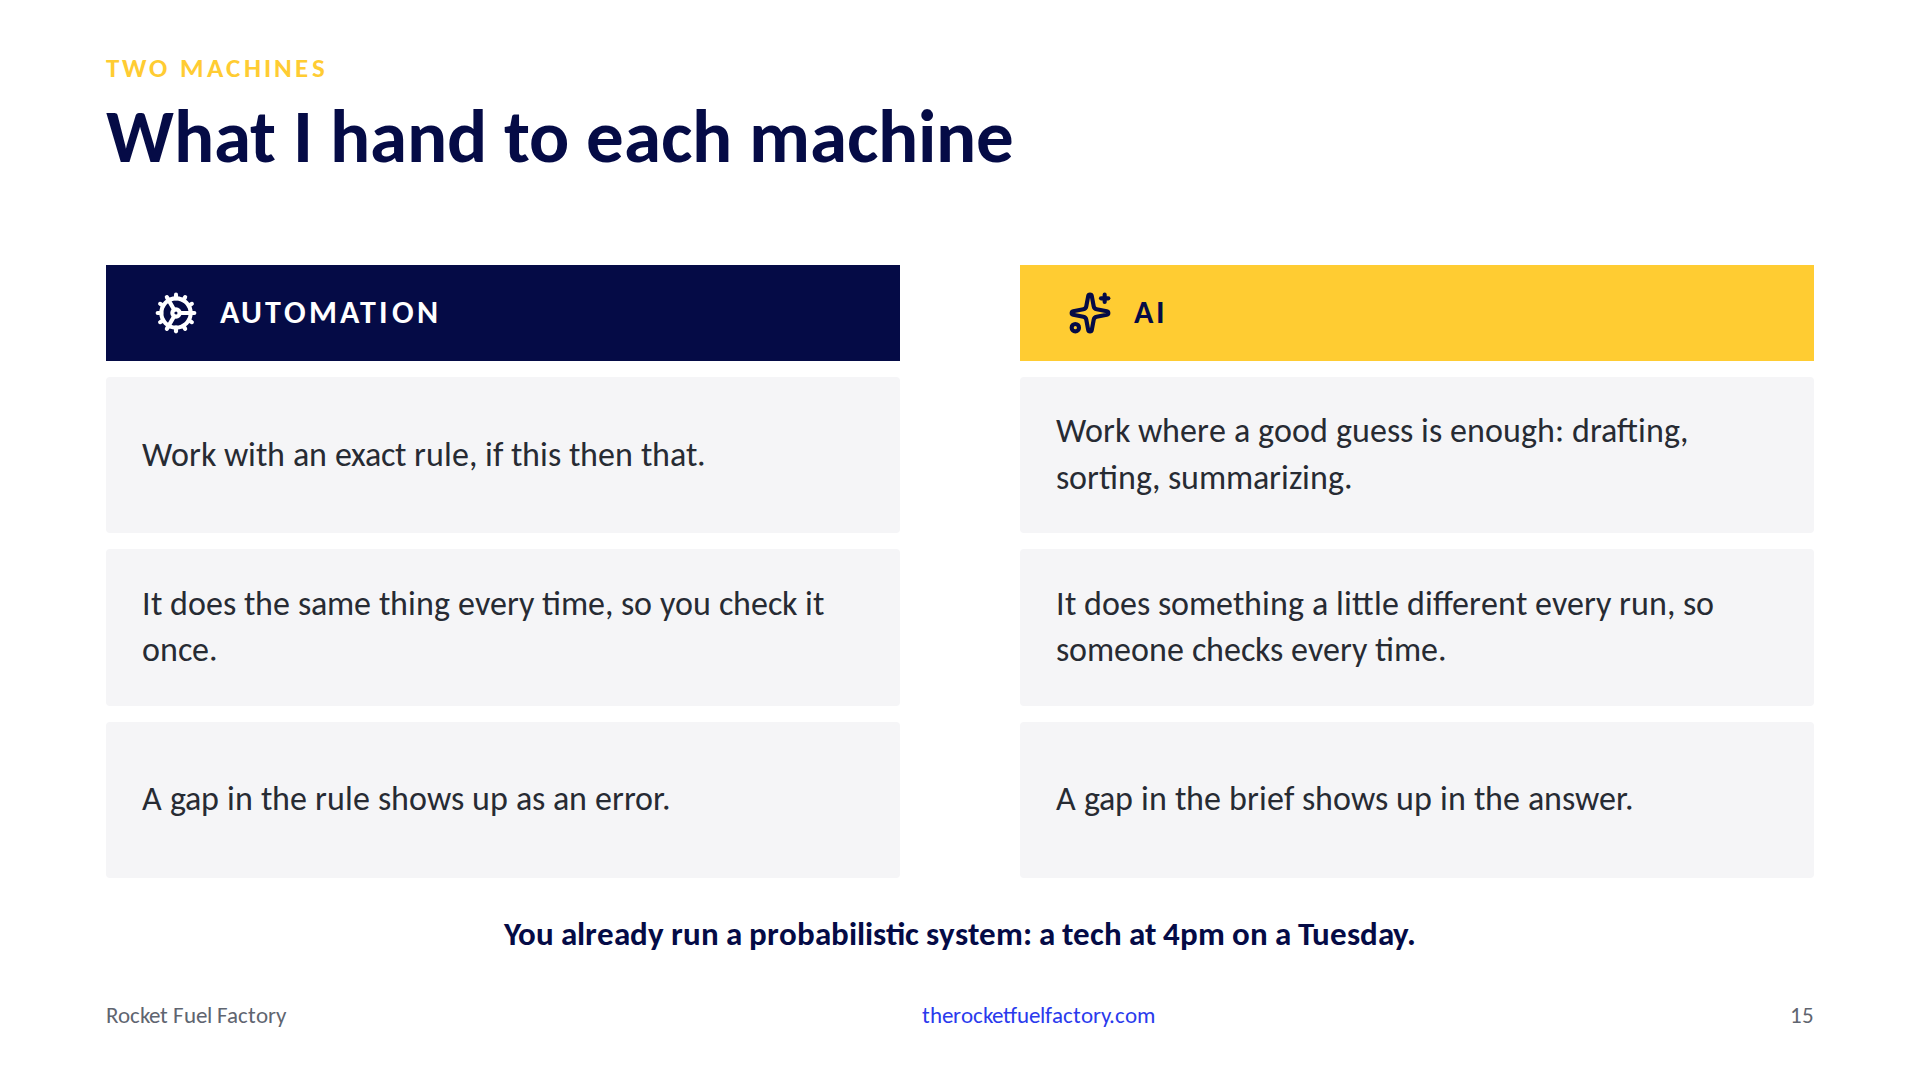
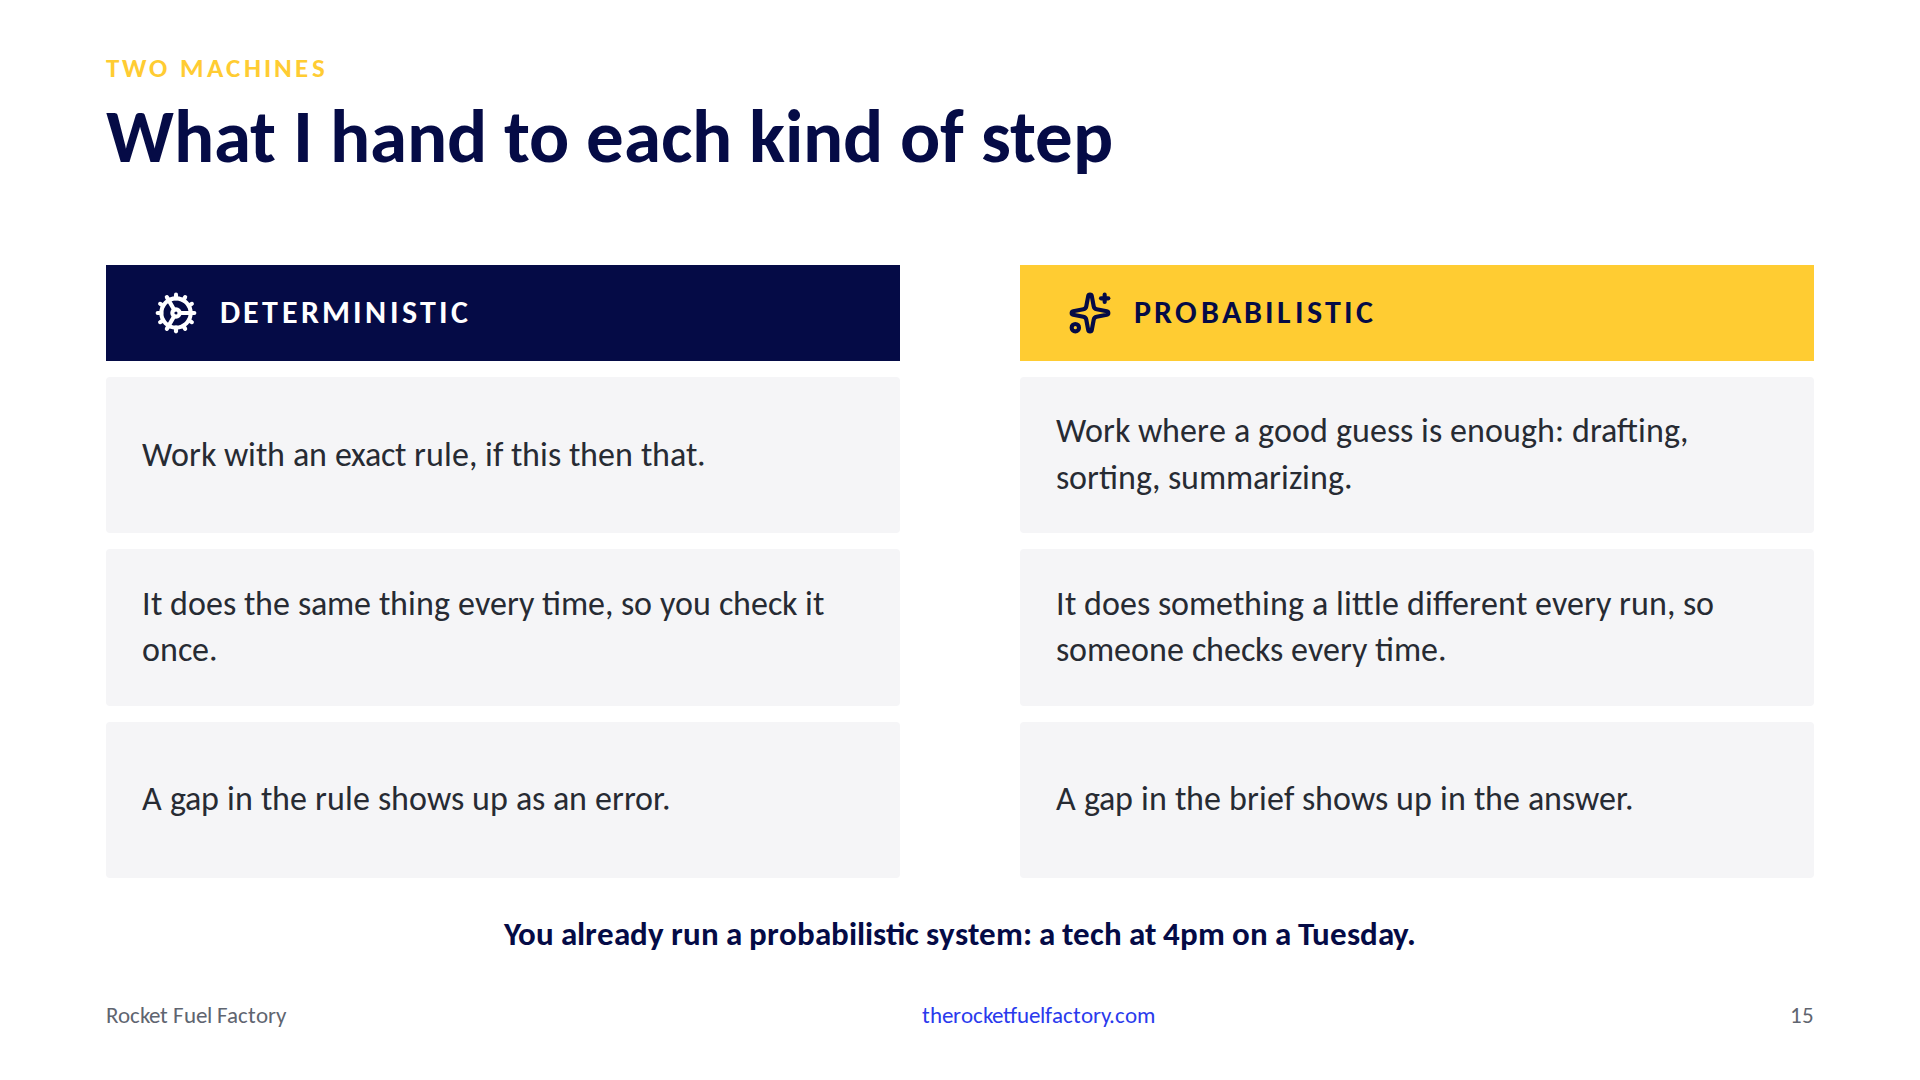
Slides 15 and 16: deterministic and probabilistic as the words; sandwich aligned, labels and note follow

Changed region(s): [[0.375, 0.0917, 0.5938, 0.1528], [0.0938, 0.275, 0.25, 0.3056], [0.5938, 0.275, 0.7188, 0.3056]]

diff --git a/src/data/notes.js b/src/data/notes.js
@@ -18,8 +18,8 @@ export const notes = {
   'exists-means-said-out-loud': 'Target 11:10. A client calls: one of their people is leaving on Friday. We have a checklist for that. It is a good one, six steps, and everyone follows it. Mike wrote it, and Mike is on vacation this week, so Chris covers for him and works down the list. One line says cancel software licenses, so Chris cancels Microsoft 365, ticks the box, and closes the ticket. Nothing looks wrong. A year later you reconcile the Adobe bill and find nine seats for people who no longer work there. Nobody skipped a step. To Mike, that line means Microsoft, Adobe, and the two tools he set up for that client, because he set them up. To Chris it means Microsoft. Same words, and the meaning lives in one person. This is the email again. On top of it meant something specific in one head and nothing specific anywhere else. Here is what that costs. Mike cannot take a vacation, because the process is him. Every departure gets handled twice, once wrong by Chris, once right by the expensive person. And the hire that covers for Mike is not for the work. It is insurance against a definition of done that lives in one person. So here is the test I use. A step is only documented if someone else can follow it without asking for help. Chris needed help. That line failed the test, and nobody knew until the invoice. The fix for that line is an hour. Sit down with Mike, ask him which licenses, and write down what he says. After that Chris can run it without asking, and so can a machine. The problem is that it is one line on one list, and Mike owns forty lists like it. That is what doing more without adding bodies means: fewer people needed to make a process safe. It is true of any process that lives in one person, and it is why so many of us automate the wrong ones.',
   'the-wrong-things': 'Target 13:10. So the process is written down. Where do we point the machine? Here is what I keep seeing. The left column is what is being sold to MSPs right now, and it is being sold hard. An agent that answers the phone. An agent in the client\'s Teams. Password resets nobody touches. A quarterly review that writes itself. The right column is what I think we are actually buying. A phone that does not ring. A ticket that closes without a conversation. If I am honest, I think we buy these because deep down a lot of us do not like talking to customers, or we are a little afraid to. The call is the part of the day where something can go wrong in front of someone. Every one of those sounds like relief, and I get it. Here is the problem. The call you did not take is the call where you would have heard that Dana is shopping for a new MSP. The review meeting you skipped is the meeting where the next thing you sell them gets sold. Those conversations are the only part of this business a competitor cannot undercut on price. I am not saying the tools are bad. Some of them are very good at what they do. I am saying the aim is wrong. In the demo, the machine wrote the draft and I made the call to Dana. The machine never talked to her. That split is the whole point. The work that eats the day is on our side of the desk, reading one screen and typing into another, chasing the same approval, checking the same thing every morning. Nobody is going to miss doing that. Point the machine there, and spend the hours you get back in front of the customer.',
   'divider-where-ai-belongs': 'Target 15:10. The work is written down, so now I pick who does it. I have two machines and they are not the same. One follows the rules exactly and the other makes a good guess. The next three slides are how I split the work between them, how I keep the guessing one away from the customer and the record, and what it costs me to check.',
-  'deterministic-vs-probabilistic': 'Target 15:40. Here is how I split it. Automation gets the work with an exact rule. If a ticket comes in from this client at this priority, do this. It does the same thing every single time, which means I can check it once, sign off on it, and let it run. And when it hits something the rule does not cover, it does not improvise. It errors, and I hear about it. AI gets the work where a good guess is enough. Draft the email. Sort the inbox. Summarize the ticket. It does something a little different every run, which is fine for a draft and not fine for a decision, so someone reads what it produces every time. And when the brief has a gap, the gap does not come back as an error. It comes back inside the answer, as a guess or as a question, and you only find it by reading. That Q2 line in the first email was a gap in the brief showing up in the answer. If that sounds like a lot of checking, think about what you already run. A tech at 4pm on a Tuesday is a probabilistic system, and you do not ban the tech. You put a second pair of eyes on the work that mattered. Same answer here. Here is what that looks like when you wire it up.',
-  'guardrail-sandwich': 'Target 17:40. This is how I wire it up, and I call it the guardrail sandwich. The bread is automation. The filling is AI. The AI never touches anything on its own. Top slice first. Automation gathers the facts from the systems that actually hold them, so the AI is not guessing at what the ticket said or what the client has. It validates that the request is complete and that we are allowed to act on it at all, and if either of those fails it stops right there and a person hears about it. Then it attaches the rules you wrote for this job. That is the step most people skip. It is the brief from the demo, and it is the thing that turns a guess into a draft you would sign. Now the filling. The AI makes the first pass. It drafts, it sorts, it summarizes. That is the only thing it does, and it does it with the facts and the rules already in front of it. Bottom slice. Automation checks the result against those same rules, and if it cannot check something, it hands it to a person. Then it logs what happened and tells the person who owns it. The AI never sent anything, never changed a record, never talked to a customer. It made a first pass in the middle of a process that was written down on both sides of it. If you saw me at Right of Boom, this is the same sandwich with the security taken out and the day to day put in. Here is what it costs.',
+  'deterministic-vs-probabilistic': 'Target 15:40. Two words, and then I will stop using jargon. Deterministic means the same input gives the same output, every time, forever. Probabilistic means it gives you a good answer, and a slightly different one each time you ask. The steps we usually call automation are deterministic. The steps we call AI are probabilistic. Neither is better. They are for different work, and a finished automation is usually built from both, which is the next slide. Here is how I split it. The deterministic steps get the work with an exact rule. If a ticket comes in from this client at this priority, do this. It does the same thing every single time, which means I can check it once, sign off on it, and let it run. And when it hits something the rule does not cover, it does not improvise. It errors, and I hear about it. The probabilistic step gets the work where a good guess is enough. Draft the email. Sort the inbox. Summarize the ticket. It does something a little different every run, which is fine for a draft and not fine for a decision, so someone reads what it produces every time. And when the brief has a gap, the gap does not come back as an error. It comes back inside the answer, as a guess or as a question, and you only find it by reading. That Q2 line in the first email was a gap in the brief showing up in the answer. If that sounds like a lot of checking, think about what you already run. A tech at 4pm on a Tuesday is a probabilistic system, and you do not ban the tech. You put a second pair of eyes on the work that mattered. Same answer here. Here is what that looks like when you wire it up.',
+  'guardrail-sandwich': 'Target 17:40. This is how I wire it up, and I call it the guardrail sandwich. The whole thing is one automation. The bread is the deterministic steps. The filling is the probabilistic step. The probabilistic step never touches anything on its own. Top slice first. Gather the facts from the systems that actually hold them, so the model is not guessing at what the ticket said or what the client has. Validate that the request is complete and that we are allowed to act on it at all, and if either of those fails it stops right there and a person hears about it. Then attach the rules you wrote for this job. That is the step I see skipped most often. It is the brief from the demo, and it is the thing that turns a guess into a draft you would sign. Now the filling. The model makes the first pass. It drafts, it sorts, it summarizes. That is the only thing it does, and it does it with the facts and the rules already in front of it. Bottom slice. Check the result against those same rules, and if something cannot be checked by a rule, hand it to a person. Then log what happened and tell the person who owns it. The model never sent anything, never changed a record, never talked to a customer. It made a first pass in the middle of a process that was written down on both sides of it. If you saw me at Right of Boom, this is the same sandwich with the security taken out and the day to day put in. Here is what it costs.',
   'honest-limit': 'Target 20:10. Line to land: the cost of AI is not tokens, it is review. A client cannot audit a vibe, they can audit a log. Sets up Bradley at 3:15.',
   'the-more': 'Target 21:40. SLOW. This is the title. Your own shop is the starting line. Your customers have the same automatons: invoices, approvals, renewals, same screens, same retyping. Nobody is selling them the fix. You just learned how. That is the more.',
   'one-action': 'Target 23:40. End on the action, not a thank you. Read it as instructions, slowly. The employee you would hate to lose is the person the process lives in; that is why you would hate to lose them. The thing they dread once a month is the automaton work. Writing it down is Aharon: the process does not exist until it is said out loud. The two questions are the whole talk: could anyone else follow it is delegation, could it be automated is the more. Then hand off: Erik and Atul are about to talk about the version of this where the person the process lives in is you.',

diff --git a/src/components/slides/017-GuardrailSandwich.jsx b/src/components/slides/017-GuardrailSandwich.jsx
@@ -13,32 +13,55 @@ const BREAD_H = 184
 const FILL_H = 210
 const LABEL_W = 400
 
+// Alignment: every circle in a band shares one top, every step's first line of
+// text shares one baseline, and the circle centre sits on that first line. The
+// label icon rides the same 52px row, so icon, circle and first line all agree.
+const LINE_H = 37.5 // text-[30px] leading-[1.25]
+const CIRCLE = 52
+const TEXT_DROP = (CIRCLE - LINE_H) / 2 // text sits below the circle top
+
+// rows = the tallest step in the band, so the whole group centres as one block.
+function circleTop(height, rows) {
+  return (height - (rows * LINE_H + TEXT_DROP)) / 2
+}
+
 function Step({ n, text, light }) {
   return (
     <div className="flex items-start gap-[18px]">
       <span
-        className={`mt-[2px] flex h-[52px] w-[52px] shrink-0 items-center justify-center rounded-full text-[28px] font-bold ${
+        className={`flex h-[52px] w-[52px] shrink-0 items-center justify-center rounded-full text-[28px] font-bold ${
           light ? 'bg-white/15 text-white' : 'bg-rff-navy text-white'
         }`}
       >
         {n}
       </span>
-      <p className={`text-[30px] leading-[1.25] ${light ? 'text-white' : 'text-rff-body'}`}>{text}</p>
+      <p
+        className={`text-[30px] leading-[1.25] ${light ? 'text-white' : 'text-rff-body'}`}
+        style={{ marginTop: TEXT_DROP }}
+      >
+        {text}
+      </p>
     </div>
   )
 }
 
-function Band({ top, height, bg, light, Icon, label, children }) {
+function Band({ top, height, rows, bg, light, edge, Icon, label, children }) {
+  const pad = circleTop(height, rows)
   return (
     <div className="absolute flex rounded-[4px]" style={{ left: LEFT, top, width: WIDTH, height }} data-band>
       <div className={`absolute inset-0 rounded-[4px] ${bg}`} />
-      <div className="relative flex items-center gap-[20px] pl-[44px]" style={{ width: LABEL_W }}>
-        <Icon size={48} strokeWidth={2.25} className={light ? 'text-white' : 'text-rff-navy'} aria-hidden="true" />
-        <span className={`text-[27px] font-bold uppercase tracking-[0.12em] ${light ? 'text-white' : 'text-rff-navy'}`}>
-          {label}
-        </span>
+      {edge && <div className="absolute left-0 top-0 h-full w-[12px] rounded-l-[4px] bg-rff-gold" />}
+      <div className="relative shrink-0 pl-[44px]" style={{ width: LABEL_W, paddingTop: pad }}>
+        <div className="flex h-[52px] items-center gap-[20px]">
+          <Icon size={48} strokeWidth={2.25} className={light ? 'text-white' : 'text-rff-navy'} aria-hidden="true" />
+          <span className={`text-[27px] font-bold uppercase tracking-[0.12em] ${light ? 'text-white' : 'text-rff-navy'}`}>
+            {label}
+          </span>
+        </div>
       </div>
-      <div className="relative flex flex-1 items-center gap-[36px] pr-[44px]">{children}</div>
+      <div className="relative flex flex-1 items-start gap-[36px] pr-[44px]" style={{ paddingTop: pad }}>
+        {children}
+      </div>
     </div>
   )
 }
@@ -54,15 +77,15 @@ export default function GuardrailSandwich({ slideNumber }) {
       accent="gold"
       slideNumber={slideNumber}
     >
-      <Band top={t1} height={BREAD_H} bg="bg-rff-light" Icon={Cog} label="Automation">
+      <Band top={t1} height={BREAD_H} rows={3} bg="bg-rff-light" Icon={Cog} label="Deterministic">
         <div className="flex-1"><Step n={1} text="Gather the facts from the systems that hold them." /></div>
         <div className="flex-1"><Step n={2} text="Validate that it is complete and that we are allowed to act." /></div>
         <div className="flex-1"><Step n={3} text="Attach the rules you wrote for this job." /></div>
       </Band>
-      <Band top={t2} height={FILL_H} bg="bg-rff-gold" Icon={Sparkles} label="AI">
+      <Band top={t2} height={FILL_H} rows={1} bg="bg-rff-gold/20" edge Icon={Sparkles} label="Probabilistic">
         <div className="flex-1"><Step n={4} text="Make the first pass: draft it, sort it, or summarize it." /></div>
       </Band>
-      <Band top={t3} height={BREAD_H} bg="bg-rff-light" Icon={Cog} label="Automation">
+      <Band top={t3} height={BREAD_H} rows={2} bg="bg-rff-light" Icon={Cog} label="Deterministic">
         <div className="flex-1"><Step n={5} text="Check it against those same rules, or hand it to a person." /></div>
         <div className="flex-1"><Step n={6} text="Log what happened and tell the person who owns it." /></div>
       </Band>

diff --git a/src/components/slides/016-DeterministicVsProbabilistic.jsx b/src/components/slides/016-DeterministicVsProbabilistic.jsx
@@ -8,7 +8,7 @@ export default function DeterministicVsProbabilistic({ slideNumber }) {
   return (
     <ComparisonSlide
       eyebrow="Two machines"
-      title="What I hand to each machine"
+      title="What I hand to each kind of step"
       accent="gold"
       slideNumber={slideNumber}
       top={265}
@@ -19,7 +19,7 @@ export default function DeterministicVsProbabilistic({ slideNumber }) {
       arrows={false}
       emphasizeRight={false}
       left={{
-        heading: 'Automation',
+        heading: 'Deterministic',
         icon: Cog,
         items: [
           'Work with an exact rule, if this then that.',
@@ -28,7 +28,7 @@ export default function DeterministicVsProbabilistic({ slideNumber }) {
         ],
       }}
       right={{
-        heading: 'AI',
+        heading: 'Probabilistic',
         icon: Sparkles,
         items: [
           'Work where a good guess is enough: drafting, sorting, summarizing.',

diff --git a/docs/OUTLINE.md b/docs/OUTLINE.md
@@ -51,8 +51,8 @@ Closing line: If you can't write the rule, you can't hire your way out of it eit
 
 13. Most MSPs automate the wrong things (comparison, orange). Automating the customer away: ticket auto-replies, templated QBRs, kickoff calls nobody attends. Automating the automaton: reading one screen and typing into another, checking the same thing every morning, chasing the same approval. Line: automate to give time back to the customer, not to hide from them. Bridge: once the automaton work is written down, two machines can take it; the next three slides are which gets what.
 14. Divider: Where AI belongs (gold). Fast is only a gift once you have said what good looks like.
-15. What I hand to each machine (comparison, gold, level pairs, Lucide cog and sparkles in the headers). Automation: work with an exact rule, if this then that; same thing every time so you check it once; a gap in the rule shows up as an error. AI: work where a good guess is enough, drafting, sorting, summarizing; a little different every run so someone checks every time; a gap in the brief shows up in the answer. Footer, one sentence: you already run a probabilistic system: a tech at 4pm on a Tuesday. First person title so the split is Tim's rule, not a vendor's law (Opus, 14 Sep).
-16. The Guardrail Sandwich (gold). Drawn as a sandwich: grey bread above and below (automation, cog), gold filling (AI, sparkles). Six generic steps, nothing names the email: gather the facts from the systems that hold them; validate complete and allowed; attach the rules you wrote for this job; (AI) make the first pass, draft, sort, or summarize; check against those same rules or hand to a person; log and tell the owner. Footer: the AI never touches the customer or the record unguarded. Note walks the slices, names step 3 as the one people skip and the brief from the demo, one-line Right of Boom callback, hands to 17 with "here is what it costs". Inspired by the Right of Boom 2026 stack, not copied.
+15. What I hand to each kind of step (comparison, gold, level pairs, headers Deterministic (cog) and Probabilistic (sparkles); note defines both words and says a finished automation is built from both). Deterministic: work with an exact rule, if this then that; same thing every time so you check it once; a gap in the rule shows up as an error. AI: work where a good guess is enough, drafting, sorting, summarizing; a little different every run so someone checks every time; a gap in the brief shows up in the answer. Footer, one sentence: you already run a probabilistic system: a tech at 4pm on a Tuesday. First person title so the split is Tim's rule, not a vendor's law (Opus, 14 Sep).
+16. The Guardrail Sandwich (gold). Drawn as a sandwich: grey bread above and below (Deterministic, cog), pale gold filling with a gold edge (Probabilistic, sparkles). Tim: the whole thing is one automation with a mix of the two, so the bands are not labelled automation and AI. Six generic steps, nothing names the email: gather the facts from the systems that hold them; validate complete and allowed; attach the rules you wrote for this job; (AI) make the first pass, draft, sort, or summarize; check against those same rules or hand to a person; log and tell the owner. Footer: the AI never touches the customer or the record unguarded. Note walks the slices, names step 3 as the one people skip and the brief from the demo, one-line Right of Boom callback, hands to 17 with "here is what it costs". Inspired by the Right of Boom 2026 stack, not copied.
 17. The honest limit (two-column, gold). The cost of AI isn't tokens, it's review. A client can't audit a vibe; they can audit a log. Sets up Bradley.
 18. The more (two-column, blue). SLOW. Your customers have automatons too: invoices, approvals, new hires, renewals. Nobody is selling them the fix. You get hours to be present, a case study they watched you build, the next line on the invoice.
 19. One action (closing). Tim's words: sit with one employee you would hate to lose. Ask what they do at least once a month that they dread. Work out the unwritten process behind it and write it down. Then two questions: could anyone else follow this, could some or all of it be automated. Say "this month" aloud. Hand to Erik and Atul: the version where the person the process lives in is you. No Table 3 reference; speakers were never asked to brief the tables.
